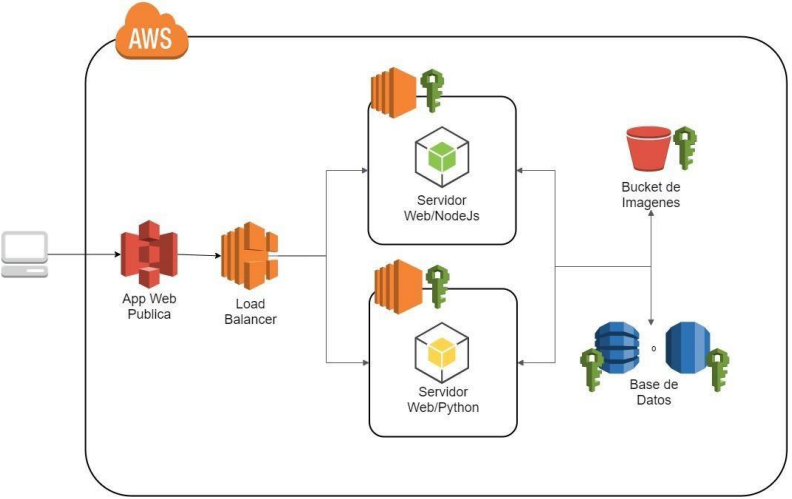
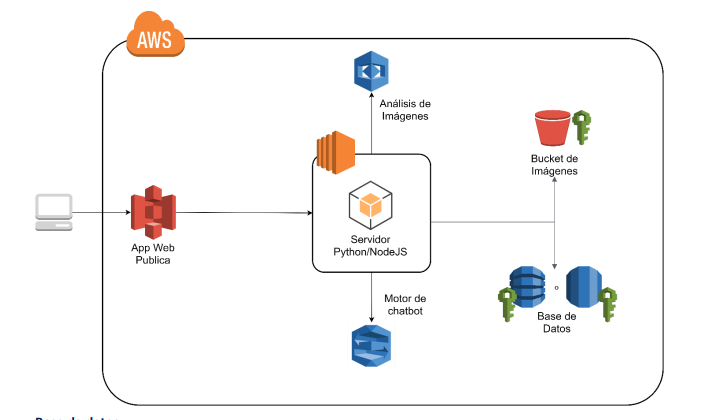
agregacion de readme

diff --git a/README.md b/README.md
@@ -1,1 +1,93 @@
-# Seminario1_Practica2_Grupo13
+## Seminario 1 -  Practica1
+#### Grupo13
+
+### Integrantes
+
+|   | NOMBRE                                      | CARNE     |
+| - | ------------------------------------------- | --------- |
+| 1 | Santiago Gilberto Antonio Rivadeneira Ruano | 201313722 |
+| 2 | Edwin Alfredo Lopez Gomez                   | 201314007 |
+| 3 | Wilfred Stewart Perez Solorzano             | 201408419 |
+| 4 | Hector Josue Orozco Salazar                 | 201314296 |
+
+## Link de la pagina
+
+
+# Arquitectura
+
+<img src="images/arquitectura.png">
+
+ 
+* EC2
+    <br>Fueron utilizadas para realizar los servidores del backend, en los cuales uno fue implementado en NodeJS y el otro en python.   
+* Bucket Imagenes
+    <br>Bucket es el contenedor que Amazon S3 nos proporciona para el almacenamiento de objetos
+    tales como archivos y metadatos 
+
+    La apliacion FAUNADEX tendra la utilizacion de un bucket de Amazon S3 para el almacenamiento 
+    de las imagenes utilzadas por los usuarios dentro de esta aplicacion, con el fin de tener
+    un pyme desentralizado y publico, para el acceso de las diferentes API'S implementadas para
+    este servicio, asi poder tener un resguardo de los datos con un nivel de integridad y 
+    confiabilidad, disponibilidad de estos mismo
+
+* Base de Datos
+    <br>Se utilizó una base de datos tradicional RDS con un servidor SQL Server en el cual se diseñó un modelo relacional y se crearon procedimientos almacenados en los que se realizaron transacciones para el manejo de los datos.
+
+* Amazon Translate
+    <br>Se implemtado el servicio de Amazon Transalte de traduccion automatica neuronal el cual amazon ofrece una traduccion de idioms rentalbe y personalizable, el cual se ha implementado en la traduccion de las descripciones que pueden poseer las imagenes dentro de la aplicacion. 
+
+* Rekognition
+    <br>La aplicacion cuentan con la integracion de Amazon REkognitcion el cual facilita la incorporacion del analisis de imagen y video dentro de esta aplicacion. El cual tiene su implenteo en el segundo metodo de login dentro de esta en el cual permitira a los usuario poder ingresar por medio de una camar web la cual aplicara el reconocimiento facial con la imagen de perfil.
+
+
+
+* Amazon lex
+    <br>Tecnologia de vz y audio de compresion de lenguaje natrual(NLU), dicha tecnologia es implementada en el chatbot personalizado que cuenta la aplicacion para poder ayudar a los usuario con ayudas rapidas
+
+# Usuarios IAM
+* Usuario S3
+Se creo un usuario con permisos de acceso a S3 para la gestion del Bucket en donde se encuentran las imagenes y paginas web, perteneciente al gurpo practica1-G13-S3.
+El permiso utilizado para este usuario es: AmazonS3FullAcces
+<img src="images/IAM1Imagenes.png">
+
+* Usuario ec2
+Se creo un usuario con permisos de acceso a ec2 con la cual se gestiono cada una de las vpc en las que se encuentran alojando los servidores de nodejs y python correspondientes, perteneciente al gurpo practica1-G13-S3.
+El permiso utilizado para este usuario es: AmazonEC2FullAcces
+<img src="images/IAM2Imagenes.png">
+
+# Bucket S3
+
+<img src="images/bucketImagenes.png">
+
+# EC2
+* Instancia utilizada para montaje del servidor de nodejs.
+<img src="images/ec2nodejs.png">
+* Instancia utilizada para montaje del servidor de python.
+<img src="images/ec2python.png">
+
+# RDS
+Se creo un usuario con permisos de acceso a la base de datos relacional utilizando la base de datos de SQLserver, perteneciente al gurpo practica1-G13-S3.
+El permiso utilizado para este usuario es: AmazonRDSFullAccess
+<img src="images/rdsImagenes.png">
+<img src="images/ER.png">
+
+# Aplicacion Web
+
+* Login
+    <img src="images/login.png">
+* Login camara
+    <imag src="images/">
+* Registro
+    <img src="images/registro.png">
+* Pantalla Inicio
+    <img src="images/inicio.png">
+* Editar Perfil
+    <img src="images/editarPerfil.png">
+* Subir Foto
+    <img src="images/subirFoto.png">
+* Ver Fotos
+    <img src="images/verFotos.png">
+* Extrer texto y Traduccir
+    <img src="images/">
+* Chatbot
+    <img src="images">
